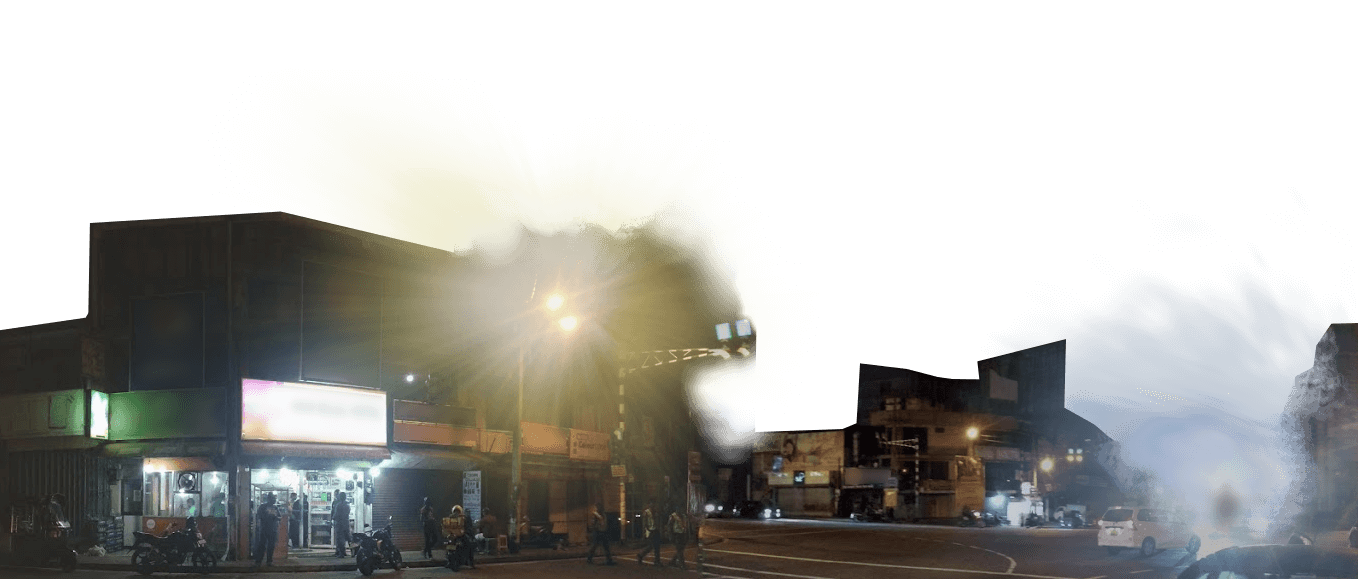
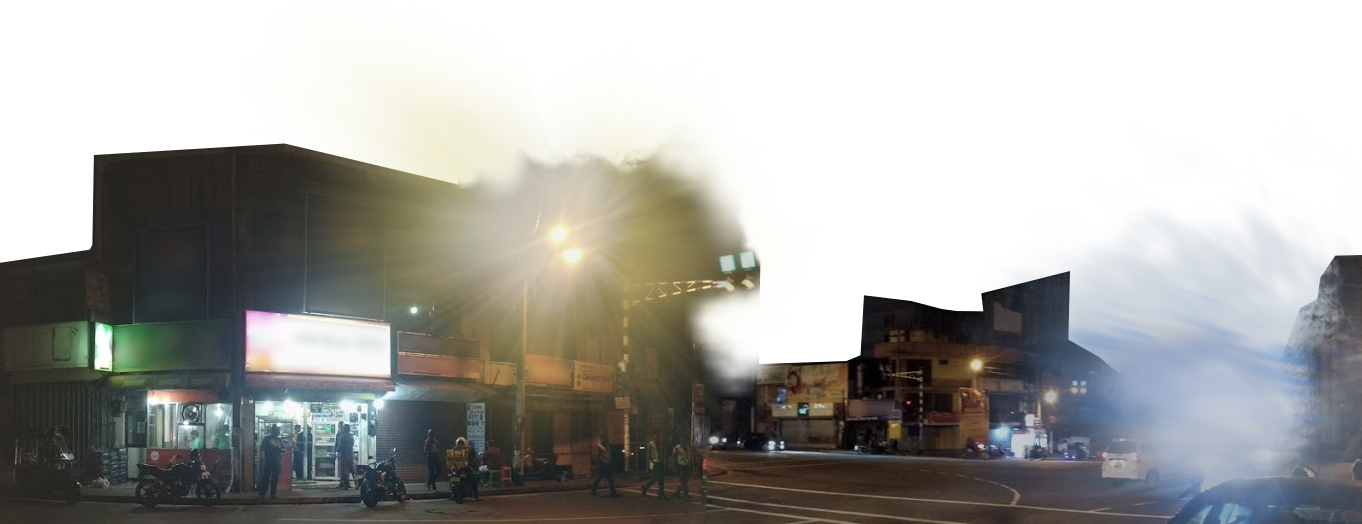
restored original overlay image. Added defer to all script tags

Changed region(s): [[0.0309, 0.1832, 1.0, 1.0], [0.0, 0.458, 0.0928, 0.5802]]

diff --git a/index.html b/index.html
@@ -12,7 +12,7 @@
         <meta name="viewport" content="width=device-width, initial-scale=1">
         <link rel="stylesheet" href="assets/css/styles.css">
         <link rel="stylesheet" href="assets/css/parellax.css">
-        <script src="assets/js/parallax.js"></script>  
+        <script src="assets/js/parallax.js" defer></script>  
     </head>
     <body>
         <!--[if lt IE 7]>
@@ -32,18 +32,18 @@
                         <li>Blog</li>
                         <li>Products</li>
                         <li>Open Source</li>
+                        <li>Contact</li>
                     </ul>
                     <!-- Left Navigation Items End -->
                     <!-- Right Navigation Items Start -->
                     <ul>
-                        <li>Contact</li>
                     </ul>
                     <!-- Right Navigation Items End -->
                 </nav>
                 <div class="parellax-overlay" id="parallax-fg"></div>
             </div>
             <div class="body container">
-                Hello
+                <h1>Home</h1>
             </div>
             <div class="footer">
 
@@ -51,22 +51,24 @@
 
         </div>
         
-        <script>
+        <script defer>
             var sky = document.getElementById('parallax-bg');
             var over = document.getElementById('parallax-fg');
             var nav = document.getElementsByTagName('nav')[0];
             var parallax = new Parallax(0.3);
 
-            parallax.movew
+
+            parallax.panWithMouse(sky,0.8,0.05);
+            parallax.panWithMouse(over,-0.08,0);
 
             document.onscroll = function() {
                 if (parallax.isScrollingDown()) {
-                    if (window.pageYOffset>570){
+                    if (window.pageYOffset>500){
                         nav.classList.add('black-nav');
                     } else if (window.pageYOffset > 80) {
                         nav.classList.add('sticky-nav');
                     }
-                } else if (window.pageYOffset <= 579 && window.pageYOffset > 90) {
+                } else if (window.pageYOffset <= 500 && window.pageYOffset > 90) {
                     nav.classList.remove('black-nav');
                 } else if (window.pageYOffset <= 90){
                     nav.classList.remove('sticky-nav');

diff --git a/assets/css/styles.css b/assets/css/styles.css
@@ -1,14 +1,14 @@
+@import url('https://fonts.googleapis.com/css2?family=Newsreader:ital,wght@0,200;1,200&display=swap');
+
 body{
     margin:0;
-    color: white
-
+    color: white;
+    font-family: 'Newsreader', serif;
 }
 
 .container{
     display: flex;
-    flex-direction: column;
-    justify-content: end;
-   
+    flex-direction: column;   
 }
 
 .header{
@@ -31,12 +31,13 @@ body{
 }
 
 .navigation h1 {
-    display: none;
+   display: none;
 }
 
 .sticky-nav {
     z-index: 99;
-    position: fixed;
+    position: sticky;
+    top: 0;
     align-items: baseline;
     justify-content: space-evenly;
 }
@@ -46,7 +47,12 @@ body{
 }
 
 .black-nav {
-    color: black
+    position: fixed;
+    color: black;
+    font-weight: bolder;
+    width: 100%;
+    background-color: rgb(0, 153, 224);
+
 }
 
 /* Navigation Items */
@@ -57,6 +63,8 @@ body{
 
 /* Body */
 .body {
+    color:black;
+    margin-top: 100px;
     min-height: 100vh;
     
     align-items: flex-start;

diff --git a/assets/css/parellax.css b/assets/css/parellax.css
@@ -12,7 +12,7 @@
     transform: translateY(-10%);
     background-image: url('../images/overlay-padded.png');
     background-size: contain;
-    background-repeat: no-repeat;
+    background-repeat: repeat-x;
 }
 
 @media only screen and (max-width: 1183px) {
